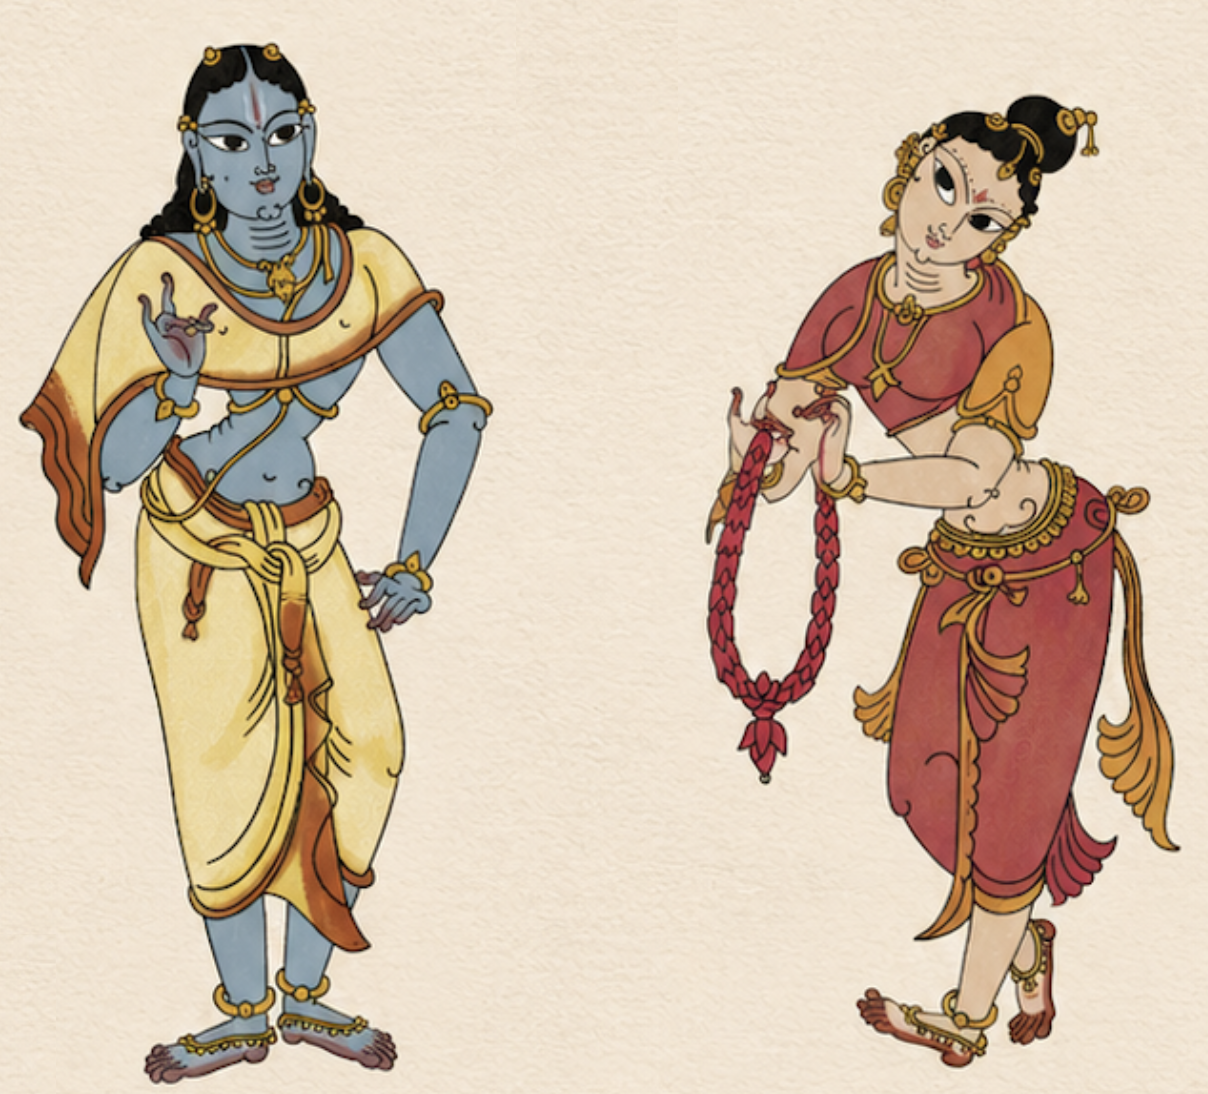
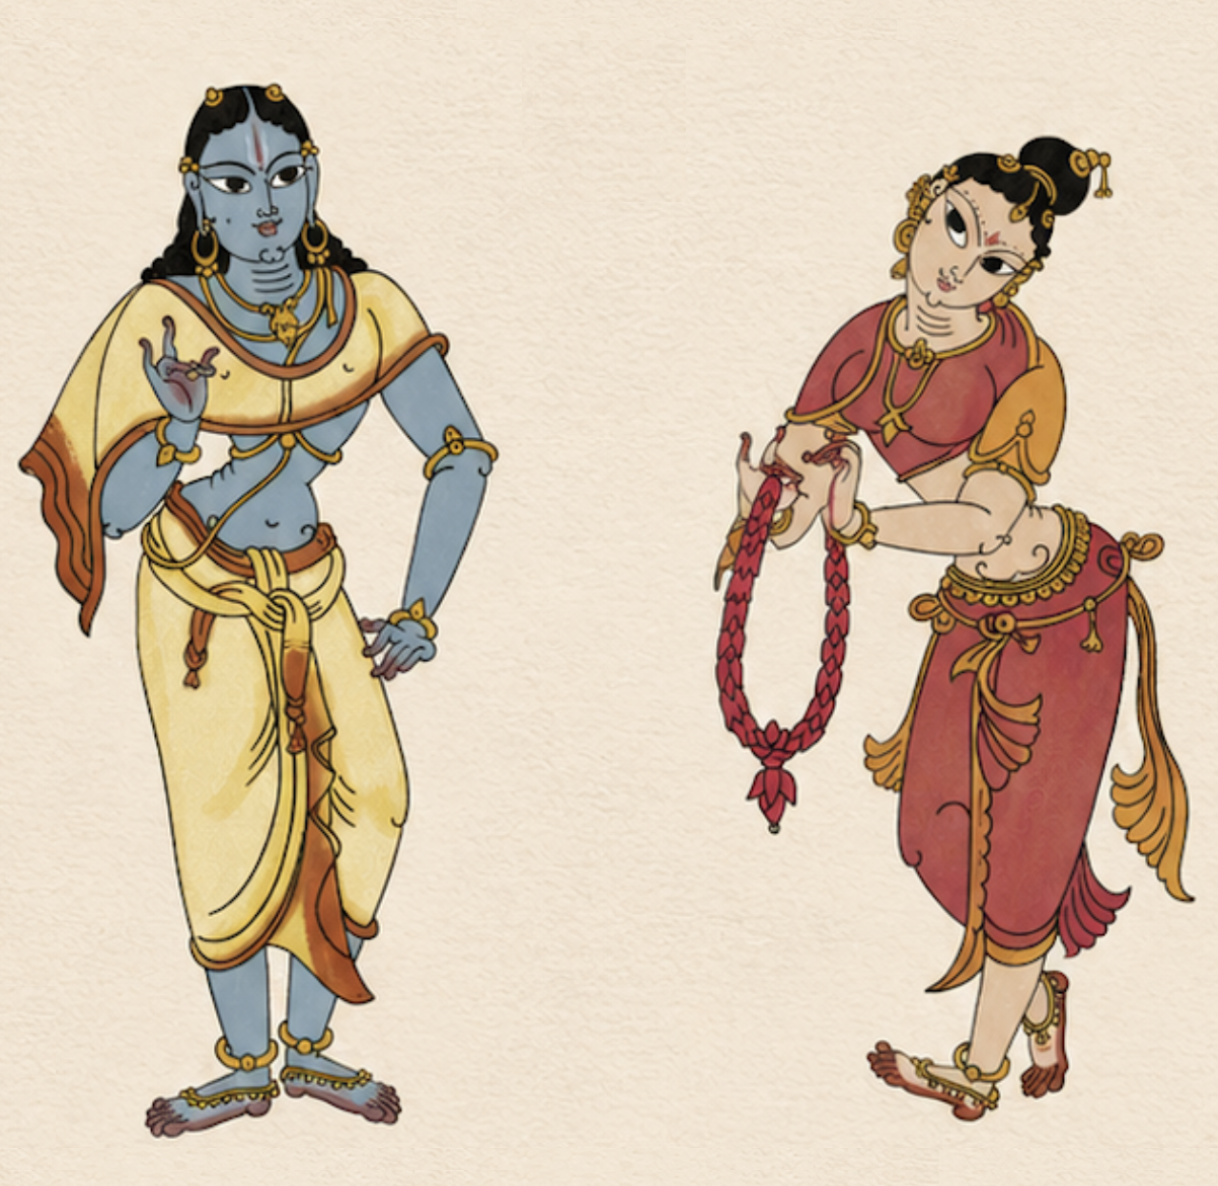
Lunch redo

Changed region(s): [[0.582, 0.0622, 0.9801, 0.9945], [0.0, 0.0311, 0.4288, 0.9945], [0.0919, 0.5594, 0.1225, 0.5905]]

diff --git a/archive/rsvp_v17.html b/archive/rsvp_v17.html
@@ -277,6 +277,10 @@ body::after{
 .venue-link svg{flex-shrink:0;opacity:0.65;transition:opacity 0.2s;}
 .venue-link:hover svg{opacity:1;}
 
+/* ── SATURDAY SECTION (hidden by default) ── */
+.saturday-section{display:none;}
+.saturday-section.visible{display:block;}
+
 /* ── EVENT GROUP HEADER ── */
 .event-day-label{
   font-family:'Cormorant SC',serif;font-weight:300;
@@ -311,7 +315,7 @@ body::after{
       <div class="header">
         <span class="lbl">Kindly RSVP</span>
         <p class="names">Shreya <em>&amp;</em> Aditya</p>
-        <p class="sub" id="headerSub">The Peacock Grove, Bengaluru &nbsp;&middot;&nbsp; 29 &ndash; 30 August 2026</p>
+        <p class="sub" id="headerSub">The Peacock Grove, Bengaluru &nbsp;&middot;&nbsp; 30 August 2026</p>
       </div>
 
       <div class="divr"><span class="divr-gem"></span></div>
@@ -367,13 +371,21 @@ body::after{
           <div class="f-group span-2" id="eventsField">
             <label>Which events will you attend?</label>
 
-            <!-- Events — always shown together, one weekend -->
-            <div class="check-block" style="grid-template-columns:1fr;">
-              <label><input type="checkbox" name="ev_sangeet" value="yes" unchecked> Sangeet &mdash; 29 August, 8:00 PM</label>
-              <label><input type="checkbox" name="ev_oonjal" value="yes" unchecked> Oonjal &mdash; 30 August, 8:00 AM</label>
-              <label><input type="checkbox" name="ev_muhurtham" value="yes" unchecked> Muhurtham &mdash; 30 August, 11:00 AM</label>
+            <!-- Saturday events (weekend only) -->
+            <div class="saturday-section" id="saturdaySection">
+              <div class="check-block" style="margin-bottom:0.55rem;grid-template-columns:1fr;">
+                <label><input type="checkbox" name="ev_sangeet" value="yes"> Sangeet &mdash; 29 August, 8:00 PM</label>
               </div>
             </div>
+
+            <!-- Sunday events (always shown) -->
+            <div id="sundaySection">
+              <div class="check-block" style="grid-template-columns:1fr;">
+                <label><input type="checkbox" name="ev_oonjal" value="yes" unchecked> Oonjal &mdash; 30 August, 8:00 AM</label>
+                <label><input type="checkbox" name="ev_muhurtham" value="yes" unchecked> Muhurtham &mdash; 30 August, 11:00 AM</label>
+              </div>
+            </div>
+          </div>
 
           <!-- Message — full width -->
           <div class="f-group span-2">
@@ -441,6 +453,23 @@ body::after{
 const SCRIPT_URL   = 'https://script.google.com/macros/s/AKfycbzwiGLO7m3Ooxdc5lCPFankcbPZoCTUxLxhC7H0UvkCd7Jjev3j-ljXnXZJV73TzlNtog/exec';
 const FALLBACK_EMAIL = 'adityaramakrishnan11@gmail.com';
 
+/* ── DETECT EVENT TYPE FROM URL ──
+     ?event=weekend  → show Saturday events
+     anything else   → Sunday only (default)                   */
+const params    = new URLSearchParams(window.location.search);
+const isWeekend = params.get('event') === 'weekend';
+
+if (isWeekend) {
+  /* Show Saturday section */
+  document.getElementById('saturdaySection').classList.add('visible');
+  /* Show "Sunday" sub-label so it's clear which row is which */
+  document.getElementById('sundayLabel').style.display = 'block';
+  /* Update header */
+  document.getElementById('headerSub').textContent =
+    'The Peacock Grove, Bengaluru  ·  29 – 30 August 2026';
+  document.getElementById('eventBadge').style.display = 'inline-block';
+}
+
 /* ── FALLBACK EMAIL ── */
 function openMailtoFallback(data) {
   const sundayEvents = [
@@ -448,9 +477,9 @@ function openMailtoFallback(data) {
     data.muhurtham  === 'Yes' ? 'Muhurtham'  : null,
   ].filter(Boolean);
 
-  const saturdayEvents = [
+  const saturdayEvents = isWeekend ? [
     data.sangeet  === 'Yes' ? 'Sangeet'  : null,
-  ].filter(Boolean);
+  ].filter(Boolean) : [];
 
   const allEvents = [...saturdayEvents, ...sundayEvents].join(', ') || 'None';
 
@@ -561,8 +590,8 @@ document.getElementById('rsvpForm').addEventListener('submit', async function(e)
     phone:       form.phone.value.trim(),
     attending:   attending,
     guests:      guests,
-    eventType:   'Weekend',
-    sangeet:     form.ev_sangeet.checked   ? 'Yes' : 'No',
+    eventType:   isWeekend ? 'Weekend' : 'Sunday',
+    sangeet:     isWeekend && form.ev_sangeet.checked  ? 'Yes' : 'No',
     oonjal:      form.ev_oonjal.checked    ? 'Yes' : 'No',
     muhurtham:   form.ev_muhurtham.checked ? 'Yes' : 'No',
     message:     form.message.value.trim(),
@@ -625,7 +654,7 @@ function downloadCalendar() {
     {
       id:      'sangeet',
       check:   form.ev_sangeet,
-      show:    true,
+      show:    isWeekend,
       summary: 'Sangeet — Shreya & Aditya',
       start:   icsDate('20260829', '20:00'),   /* 8:00 PM IST */
       end:     icsDate('20260829', '20:30'),

diff --git a/index.html b/index.html
@@ -168,7 +168,7 @@ nav button:hover, nav button.active { color: var(--nav-active); }
 .wg-item { text-align: center; }
 .wg-day {
   font-family: 'Cormorant SC', serif; font-size: 0.6rem;
-  letter-spacing: 0.22em; color: var(--bg);
+  letter-spacing: 0.22em; color: var(--gold);
 }
 .wg-title {
   font-family: 'Cormorant Garamond', serif; font-size: 1.2rem; color: var(--txt); /*#fff;*/
@@ -675,7 +675,7 @@ footer .panel {
       <!-- Lunch -->
       <div class="ev-row img-left">
         <div class="ev-art">
-          <img src="images/art_lunch.png" alt="Lunch & Farewells">
+          <img src="images/art_nichayam.png" alt="Lunch & Farewells">
         </div>
         <div class="ev-text">
           <p class="ev-name">Post-ceremony</p>
